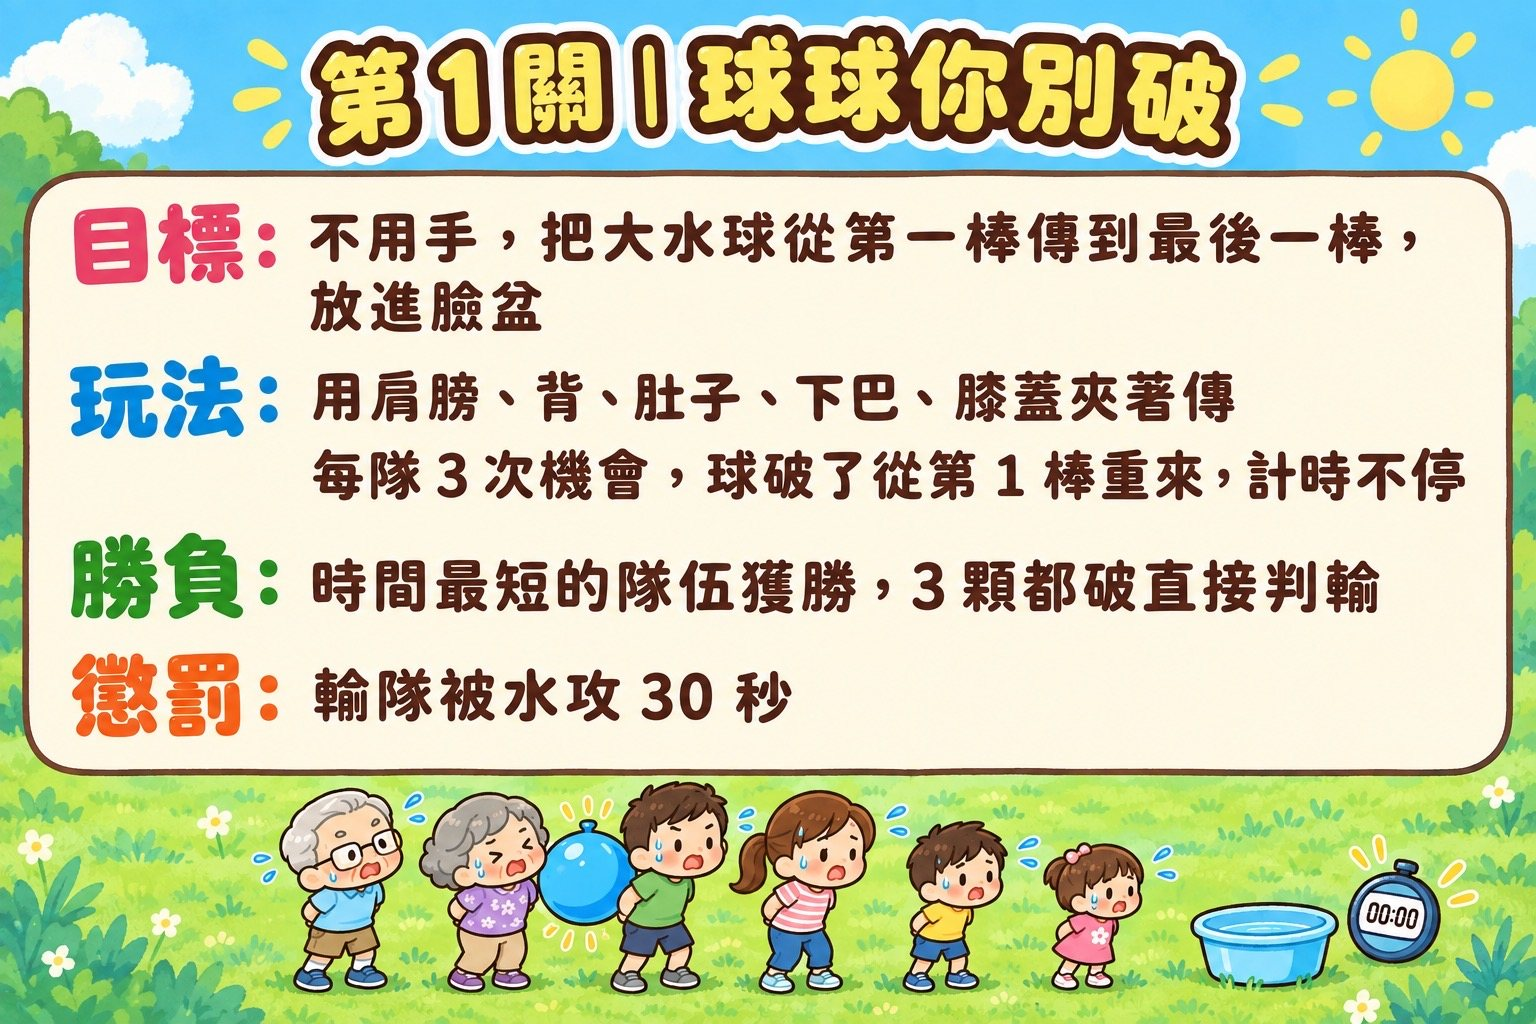
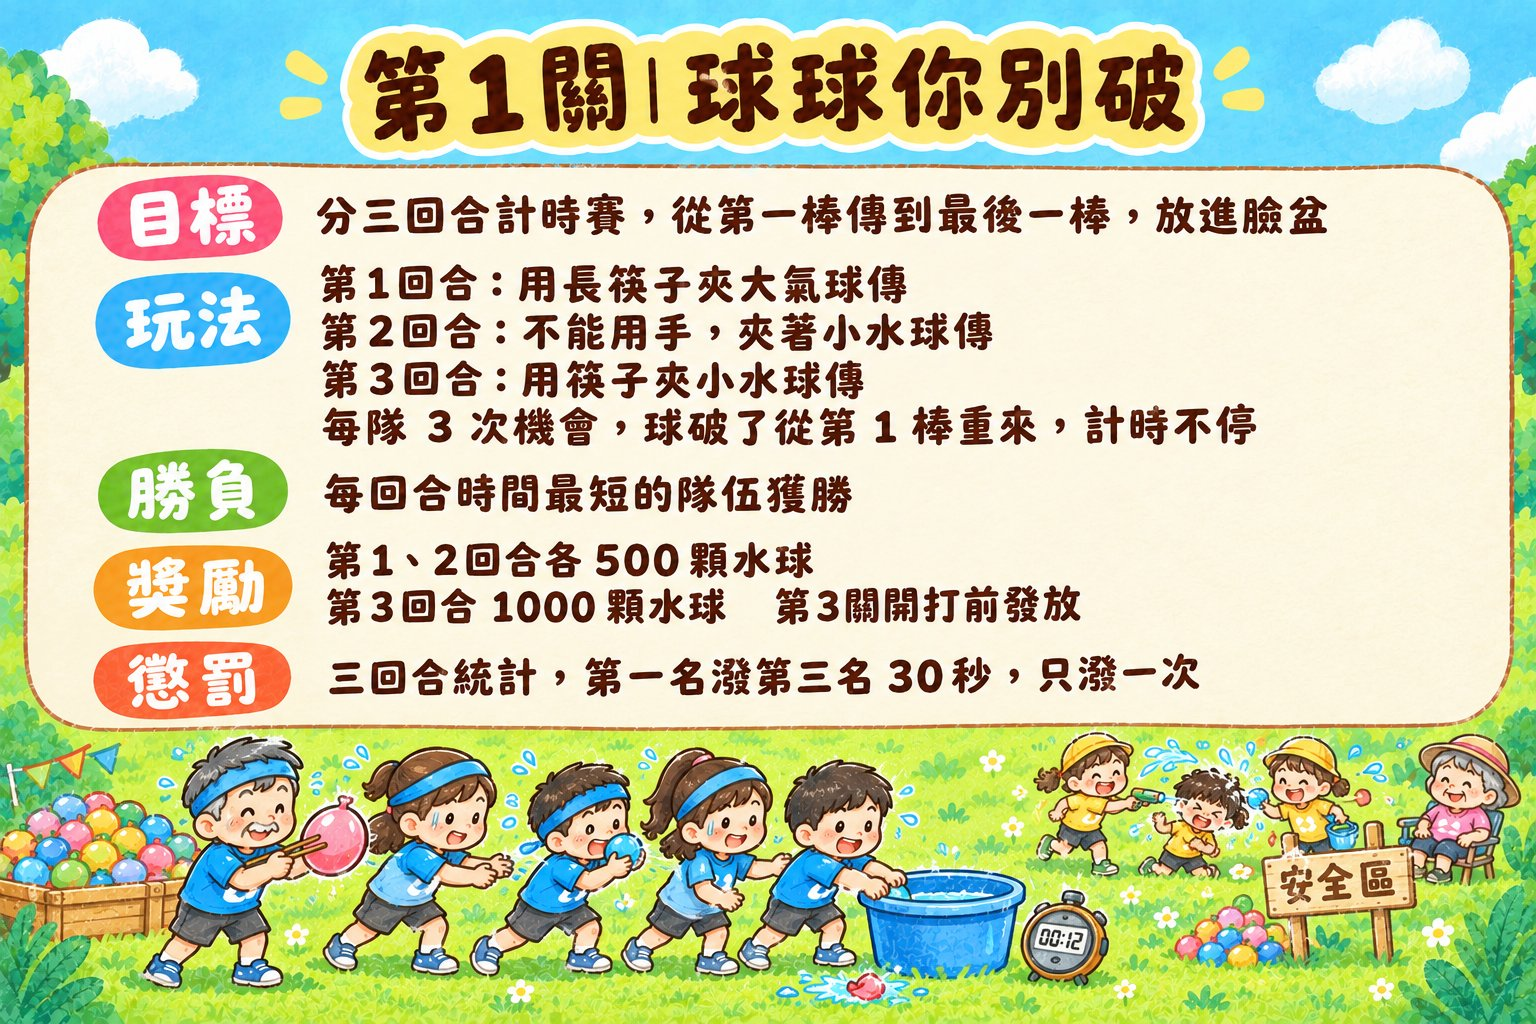
Add files via upload

diff --git a/index.html b/index.html
@@ -396,17 +396,18 @@ const PACK = [
 
 const LEVELS = [
   {n:1, name:'球球你別破', rows:[
-    ['目標',['不用手，把大水球從第一棒傳到最後一棒，放進臉盆']],
-    ['玩法',['用肩膀、背、肚子、下巴、膝蓋夾著傳','每隊 3 次機會，球破了從第 1 棒重來，計時不停']],
-    ['勝負',['時間最短的隊伍獲勝，3 顆都破直接判輸']],
-    ['懲罰',['輸隊被水攻 30 秒']]]},
+    ['目標',['分三回合計時賽，從第一棒傳到最後一棒，放進臉盆']],
+    ['玩法',['第1回合：用長筷子夾大氣球傳','第2回合：不能用手，夾著小水球傳','第3回合：用筷子夾小水球傳','每隊 3 次機會，球破了從第 1 棒重來，計時不停']],
+    ['勝負',['每回合時間最短的隊伍獲勝']],
+    ['獎勵',['第1、2回合各 500 顆水球','第3回合 1000 顆水球','第3關開打前發放']],
+    ['懲罰',['三回合統計，第一名潑第三名 30 秒，只潑一次']]]},
   {n:2, name:'這一瓢，我敬你', rows:[
     ['目標',['猜拳贏了潑水，輸了想辦法擋']],
-    ['玩法',['從籤筒抽出 2 人上場','猜拳一拳定勝負，贏的人潑一瓢水','輸的人可以拿臉盆或雨傘擋']],
-    ['規則',['抽過的人不會再被抽到']]]},
+    ['玩法',['每隊派 1 位隊員，3 人一起猜拳','贏的人潑輸的人，輸的人可以拿臉盆或雨傘擋']],
+    ['規則',['平手重猜，每次換不同隊員上場']]]},
   {n:3, name:'濕身大逃殺', rows:[
-    ['目標',['找出藏好的水球和水槍，找到就開打']],
-    ['玩法',['一聲長哨開始，三聲短哨全員停手','水球、水槍藏在樹下、椅子下、草叢邊、倒扣的水桶裡','安全區不能攻擊，只能打肩膀以下']],
+    ['目標',['搶到水球就開打']],
+    ['玩法',['一聲長哨開始，三聲短哨全員停手','公共水球放在三個區域，拿到直接丟','第1關贏到的水球，開打前發給各隊','安全區不能攻擊，只能打肩膀以下']],
     ['結束',['不分勝負，大家一起撿水球碎片']]]},
   {n:4, name:'當我們同在一起', rows:[
     ['目標',['手牽手唱歌，唱到關鍵字就做動作']],
